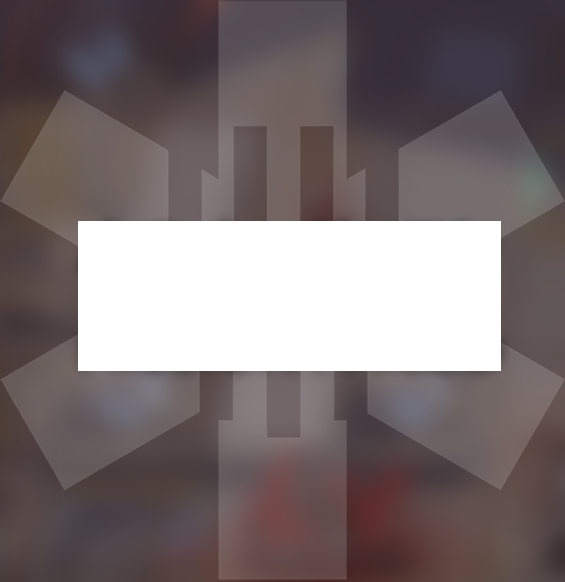
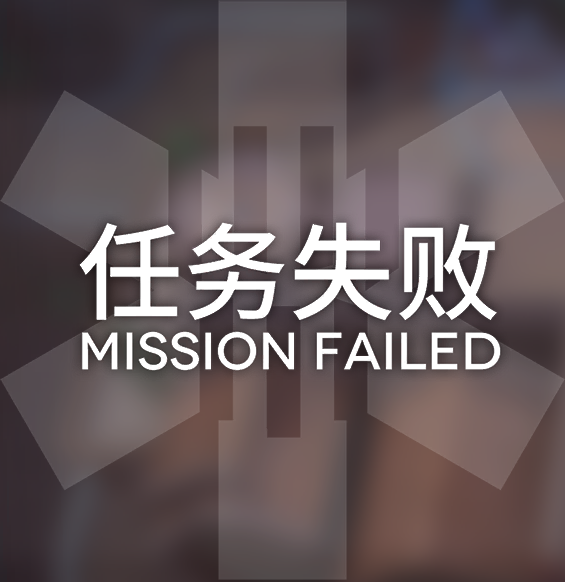
fix combat failed recognition (#346)

diff --git a/Arknights/addons/combat.py b/Arknights/addons/combat.py
@@ -279,7 +279,7 @@ class CombatAddon(AddonBase):
                     smobj.request_exit = True
                     return
 
-            if self.match_roi('combat/failed', screenshot=screenshot):
+            if self.match_roi('combat/failed', mode='L', method='ccoeff', screenshot=screenshot):
                 self.logger.info("行动失败")
                 smobj.mistaken_delegation = True
                 smobj.request_exit = True
